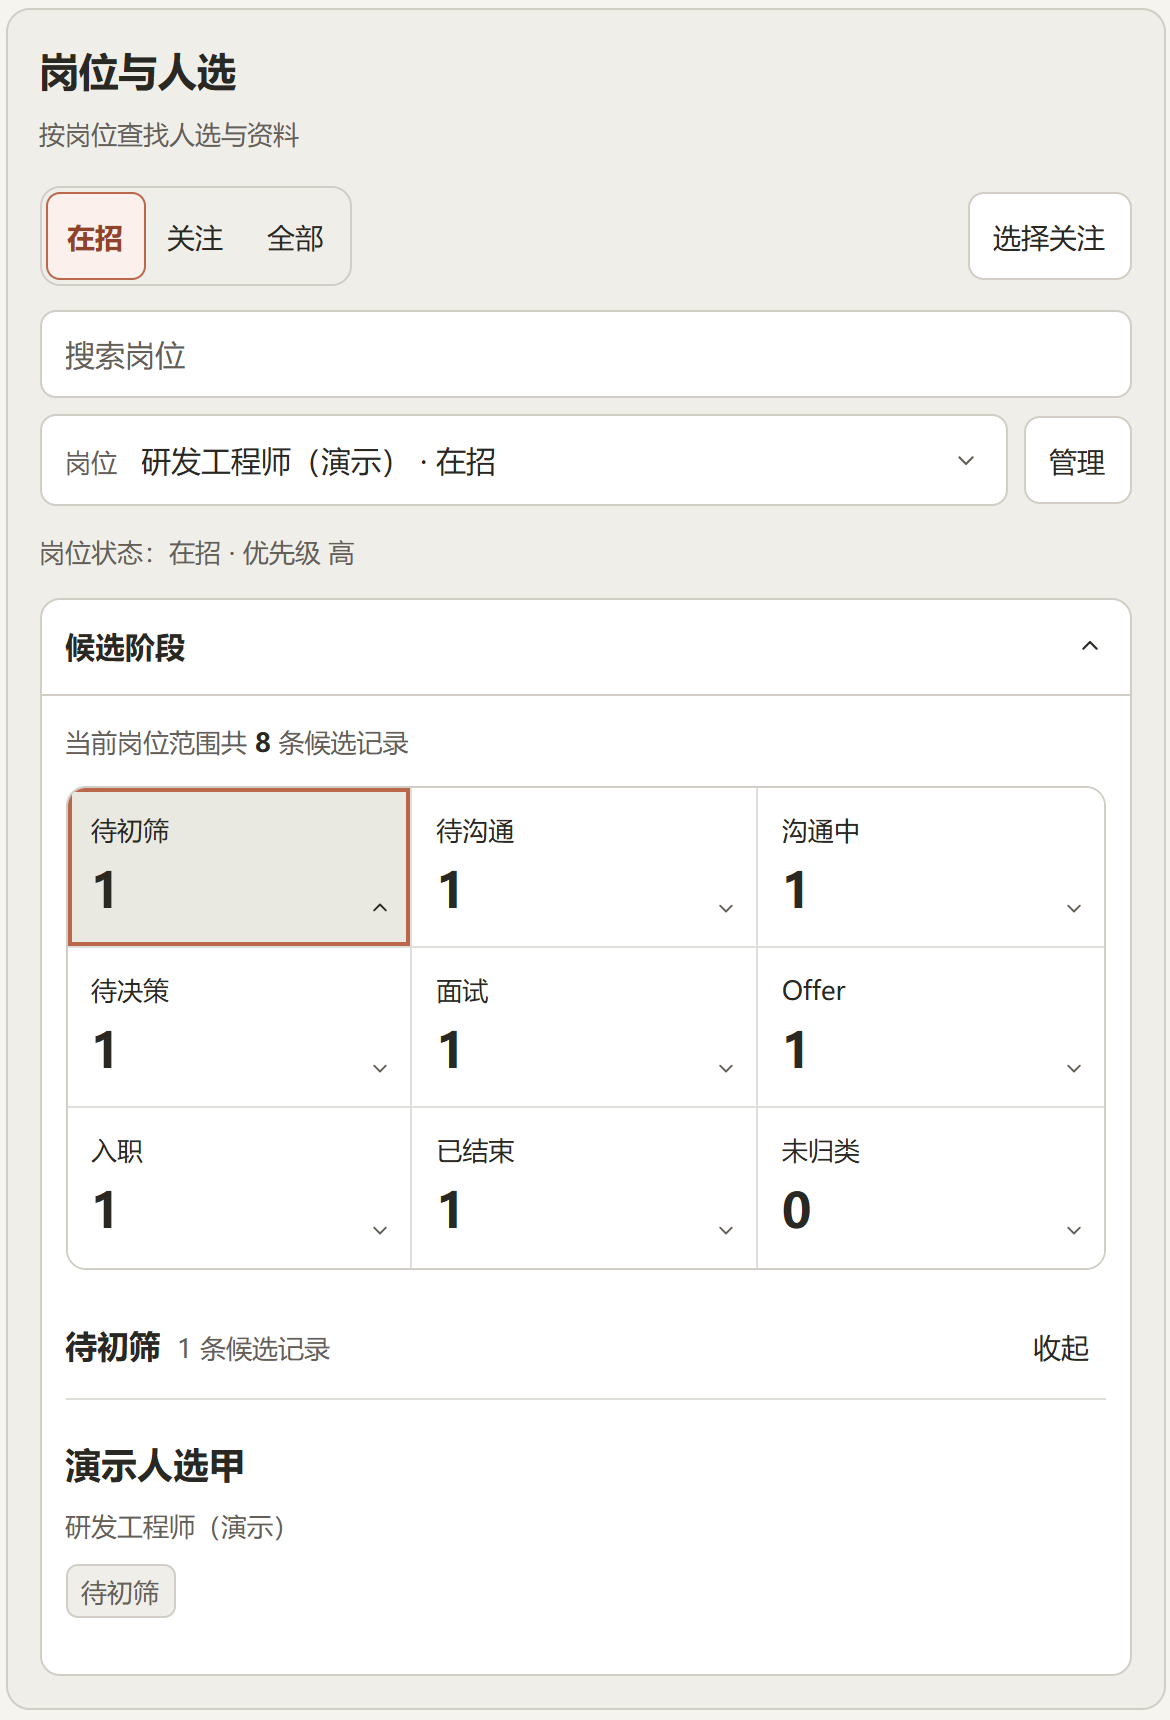
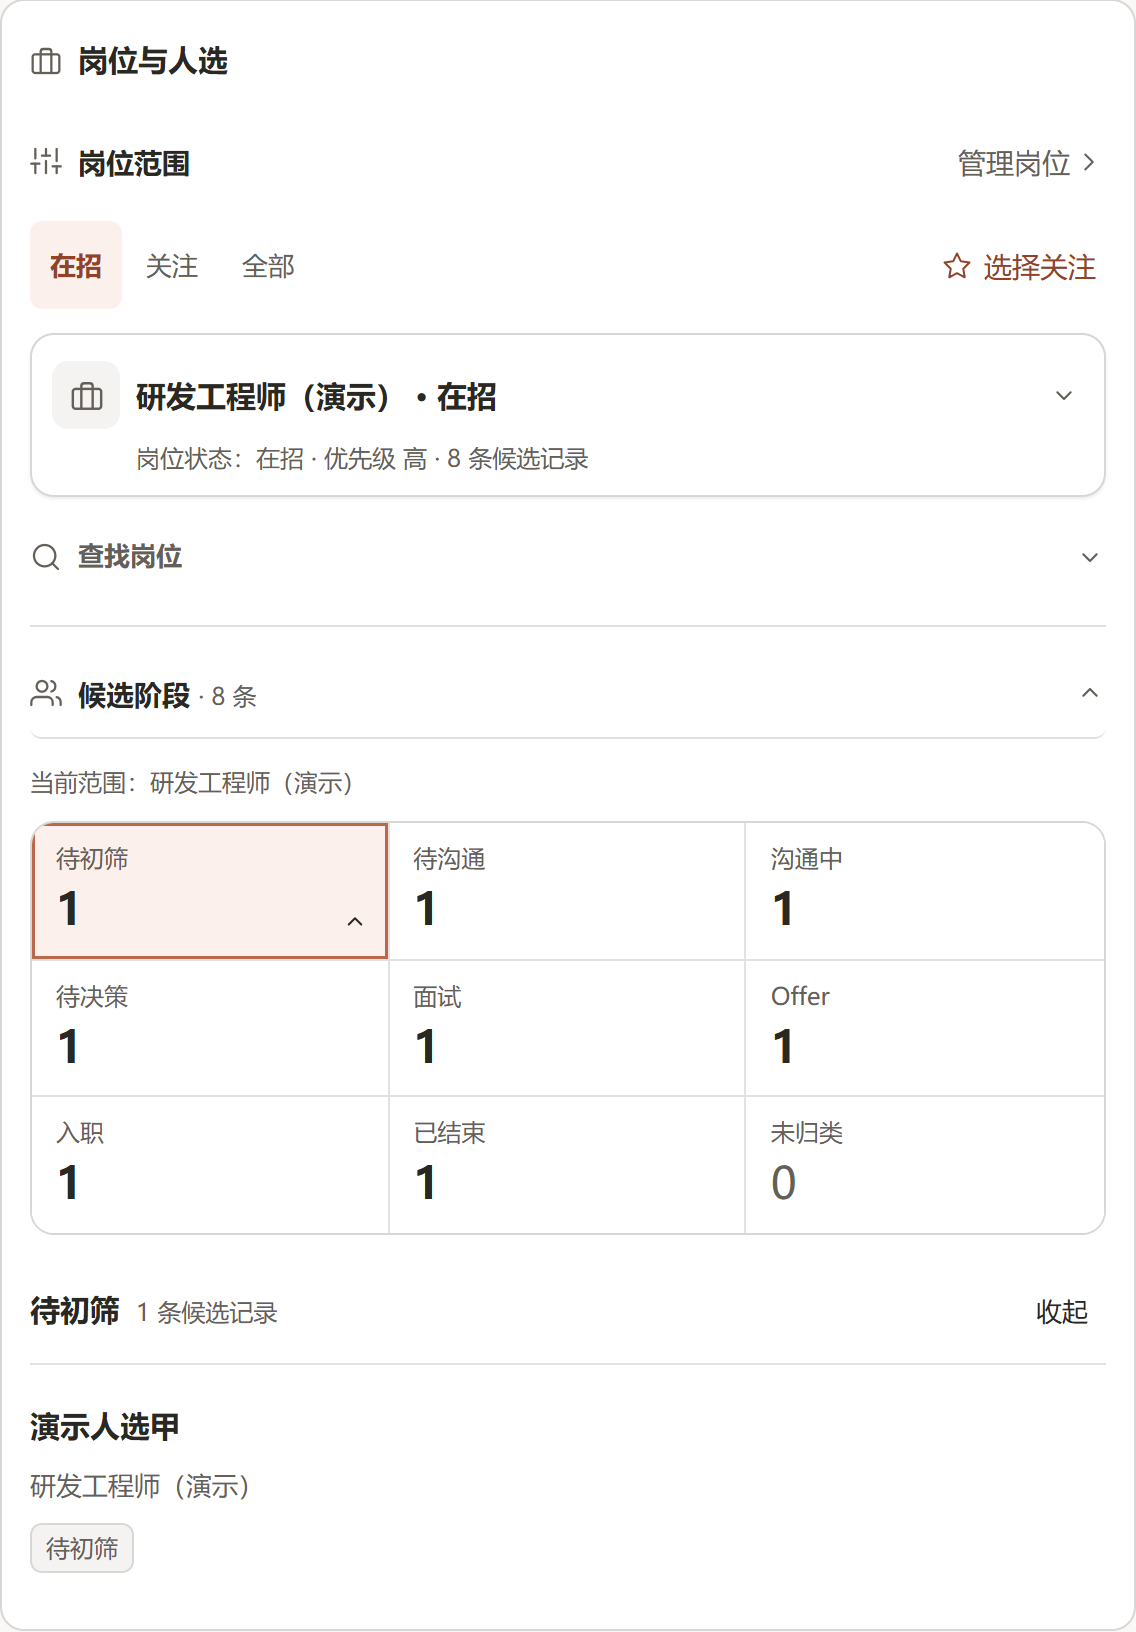
发布: 更新招聘工作台文档截图并准备 0.8.0
README 与使用说明改为当前界面，补充全局姓名搜索、Workspace、宽窄布局和排序操作，并替换旧功能截图为合成数据的高清 PNG。

统一主包与插件版本，补齐固定版本安装、已有工作区升级和回退说明，使发行入口与工作台实现一致。

diff --git a/README.md b/README.md
@@ -4,7 +4,7 @@
 
 支持 Claude Code、Codex、WorkBuddy、Qoder、MiniMax Code、ZCode 等能读取项目文件的 AI 工具。招聘标准、候选台账和面试档案保存在你自己的工作区，换工具也能接着做。
 
-当前正式版为 **v0.7.0**。[开始使用](#开始使用) · [完整 Skill 目录](#完整-skill-目录) · [已有工作区升级](docs/releases/v0.7.0.md#升级已有工作区)
+当前正式版为 **v0.8.0**。[开始使用](#开始使用) · [完整 Skill 目录](#完整-skill-目录) · [已有工作区升级](docs/releases/v0.8.0.md#升级已有工作区)
 
 ## 从首次使用到日常招聘
 
@@ -52,7 +52,7 @@
 #### 1. 下载固定版本并安装依赖
 
 ```bash
-git clone --branch v0.7.0 --depth 1 https://github.com/Viy1204/recruiting-copilot.git
+git clone --branch v0.8.0 --depth 1 https://github.com/Viy1204/recruiting-copilot.git
 ```
 
 进入源码目录。
@@ -79,7 +79,7 @@ sh skills/recruit-init/scripts/install-dependencies.sh
 
 AI 会询问工作区位置，建立模板和各工具的 Skill 入口，再逐个岗位梳理真实要求。**本仓库是工具源码，岗位数据和候选资料放在新建的独立工作区。**
 
-已有工作区先按[升级说明](docs/releases/v0.7.0.md#升级已有工作区)同步工具文件，保留原有标准、台账和档案。
+已有工作区先按[升级说明](docs/releases/v0.8.0.md#升级已有工作区)同步工具文件，保留原有标准、台账和档案。
 
 #### 3. 在可见窗口中完成人工登录
 
@@ -117,14 +117,14 @@ claude plugin marketplace add "/绝对路径/recruiting-copilot"
 claude plugin install recruiting-copilot@recruiting-copilot
 ```
 
-如果已配置同名 marketplace，先核对来源再按原来源更新，见[正式版安装说明](docs/releases/v0.7.0.md#固定版本安装)。重新打开会话后，先用 `/recruiting-copilot:recruit-init` 建立招聘工作区。后续在自己的工作区使用下表的插件命令，也可以继续用自然语言。
+如果已配置同名 marketplace，先核对来源再按原来源更新，见[正式版安装说明](docs/releases/v0.8.0.md#固定版本安装)。重新打开会话后，先用 `/recruiting-copilot:recruit-init` 建立招聘工作区。后续在自己的工作区使用下表的插件命令，也可以继续用自然语言。
 
 ### DeepSeek Harness 入口
 
 [DeepSeek Harness](https://github.com/deepseek-ai/deepseek-harness) 用户在使用 Web profile 的环境中安装：
 
 ```bash
-dsh plugin --profile web add git+https://github.com/Viy1204/recruiting-copilot.git#v0.7.0
+dsh plugin --profile web add git+https://github.com/Viy1204/recruiting-copilot.git#v0.8.0
 ```
 
 重新打开 DSH 会话后，8 个招聘 Skill 在任意工作区可用。首次仍从“帮我初始化招聘工作区”开始，之后打开新建的招聘工作区处理日常任务。
@@ -182,17 +182,24 @@ DSH 另有独立的 **招聘浏览器**，用于观察两个 CLI 的平台页面
 
 ## 招聘进展看板
 
-看板伴随招聘工作流显示本轮任务，方便你在 AI 执行时核对进度和人选。初始化、岗位梳理、每日招聘、人才盘点、简历评估和约面试这六个流程，在进度脚本可用时默认记录真实步骤，并尽早打开或复用网页。
+网页现在以“招聘工作台”组织任务与人选。初始化、岗位梳理、每日招聘、人才盘点、简历评估和约面试这六个流程，在进度脚本可用时记录真实步骤，并尽早打开或复用工作台。
 
-![Claude Desktop 中 AI 对话与招聘看板的并排布局：左侧为本次文档调整对话，右侧为演示人选与任务记录](docs/images/recruit-board-sidebar.png)
+![招聘工作台宽屏布局：左侧 Workspace 导航，顶部姓名搜索，下方并列显示需确认人选、岗位阶段与任务记录](docs/images/recruit-board-overview.png)
 
-*Claude Desktop 实拍，用本次文档调整对话展示左侧聊天、右侧看板的侧栏布局。右侧岗位、姓名、经历和数字均为合成演示数据。能否停靠在侧栏取决于宿主，普通浏览器也能打开同一网页。*
+*新版网页的实际运行截图，使用合成岗位、人选和任务。宽屏显示 Workspace 与三个分区；侧栏根据实际可用宽度收为单列。点击图片可查看无损 PNG 原图。*
 
-你可以在看板中查看本轮待确认人选及依据，展开执行记录和逐人处理名单，按岗位查看候选阶段、打开本地资料，也可保存本地岗位状态并自动备份。
+<img src="docs/images/recruit-board-sidebar.png" alt="招聘工作台在390px侧栏宽度下自动单列显示，顶部保留搜索与确认事项" width="390">
 
-看板读取已写入工作区的数据，不连接招聘平台。读取正常不代表 AI 进程仍在运行；候选台账保持只读，岗位保存只更新本地 `CONTEXT.md`，不改变平台职位。旧工作区缺少进度脚本时，招聘流程仍可继续，并说明本轮未记录进度。
+*同一网页的 390px 窄栏截图，不含宿主外框。能否停靠在 AI 工具侧栏取决于宿主，普通浏览器也可打开。*
 
-完整功能图解、手动打开步骤、可选 Claude 原生面板与配置见[招聘进展看板使用说明](docs/recruit-board.md)。
+- 在顶部 **搜索人选** 输入完整或部分姓名，查找全部岗位、阶段和历史岗位中的记录。结果在岗位区显示，清空后恢复原筛选。
+- 从 Workspace 定位到岗位或执行记录，直接打开关注岗位；窄栏中的正文仍保留所有入口。
+- 查看本轮需确认人选、判断依据、逐人处理记录和候选资料。历史任务选择与资料返回位置会保留。
+- 用 **调整布局** 重排模块，偏好按工作区保存在本机。明确无确认事项时只显示紧凑摘要。
+
+看板读取已写入工作区的数据，不连接招聘平台。读取正常不代表 AI 进程仍在运行；候选台账保持只读，岗位保存只更新本地 `CONTEXT.md` 并备份，不改变平台职位。旧工作区缺少进度脚本时，招聘流程仍可继续，并说明本轮未记录进度。
+
+完整的宽窄布局、搜索、排序、资料和手动打开图解见[招聘工作台使用说明](docs/recruit-board.md)。可选 Claude 原生面板继续使用宿主组件，本次网页布局不替换原生面板。
 
 ## 使用边界
 
@@ -206,7 +213,7 @@ DSH 另有独立的 **招聘浏览器**，用于观察两个 CLI 的平台页面
 
 | 入口 | 内容 |
 | --- | --- |
-| [v0.7.0 正式版说明](docs/releases/v0.7.0.md) | 固定版本安装、已有工作区升级、回退与兼容边界 |
+| [v0.8.0 正式版说明](docs/releases/v0.8.0.md) | 固定版本安装、已有工作区升级、回退与兼容边界 |
 | [流程总目录](skills/ask-viy/SKILL.md) | 从首次初始化到每日招聘，以及简历、人才盘点和面试的流程选择 |
 | [设计思路与理念](docs/DESIGN.md) | 为什么先梳理岗位、使用本地文件、区分内外资料并保留人工确认 |
 | [BOSS CLI 维护 fork](https://github.com/Viy1204/boss-cli) | `@viyzhu/boss-cli-fork` 的安装、命令和平台操作边界 |

diff --git a/docs/releases/v0.8.0.md b/docs/releases/v0.8.0.md
@@ -1,0 +1,54 @@
+# v0.8.0 正式版
+
+v0.8.0 将招聘进展网页整理为“招聘工作台”。Workspace 导航、全局姓名搜索和宽窄布局让你在浏览器或宿主侧栏中核对同一份招聘记录。主包、主插件和可选原生插件统一为 `0.8.0`；原生面板继续使用原有宿主组件。
+
+## 本次交付
+
+- 顶部按完整或部分姓名搜索全部岗位、阶段和历史岗位。搜索结果替换岗位区，清空后恢复原岗位与阶段；保留同名不同原岗位的记录。
+- 宽屏新增 Workspace 同页导航、关注岗位入口和工作区信息。正文默认三列，中等宽度两列，窄侧栏单列；按实际容器宽度适配。
+- 明确零确认时压缩为摘要；有事项时展示人选，未知和读取异常仍保留原因。确认事项只属于所选任务。
+- 调整布局时临时切成单列，支持拖动、上下移动、键盘确认取消及恢复默认。旧工作区布局顺序继续保留。
+- 搜索、资料返回、历史任务、关注偏好和浅深主题与新结构兼容。开发预览可切换宽屏和窄栏，正式页自动适配。
+- README 和使用说明更新为当前页面截图，全部使用合成演示数据。
+
+## 固定版本安装
+
+需要 Node.js ≥22 与现代浏览器。BOSS 与猎聘 CLI 的依赖来源沿用 v0.7.0，不因工作台升级变更招聘平台授权。
+
+```bash
+git clone --branch v0.8.0 --depth 1 https://github.com/Viy1204/recruiting-copilot.git
+```
+
+进入源码目录后安装依赖：
+
+```bash
+sh skills/recruit-init/scripts/install-dependencies.sh
+```
+
+Claude Code 按 [README 插件入口](../../README.md#claude-code-插件入口) 添加该固定源码目录。已有 marketplace 先核对来源，再按原来源更新并重新打开会话，避免同时加载不同副本。
+
+DeepSeek Harness 使用：
+
+```bash
+dsh plugin --profile web add git+https://github.com/Viy1204/recruiting-copilot.git#v0.8.0
+```
+
+源码 ZIP 包含主插件 `.claude-plugin/` 和 `commands/`；TGZ 供 DSH 和脚本使用，不替代完整 Claude 插件源码。本版本不向 npm 发布 recruiting-copilot。
+
+## 升级已有工作区
+
+先备份工作区工具文件和定制规则，再同步本版本 `skills/recruit-board/`。源码或插件升级不会自动替换先前复制到工作区的工具文件。
+
+保留 `CONTEXT.md`、候选台账、JD、面试档案、定时预算及业务 `runtime/`。不要用初始化模板覆盖它们。项目级 Skill 入口继续指向同一份 `skills/`，注册冲突按[已有工作区升级说明](v0.7.0.md#升级已有工作区)处理。
+
+本次布局沿用 `recruiting-board:layout:v1:<workspaceKey>` 及原模块标识，确认区承接原“招聘助手”的排序位置；搜索固定在正文结构顶部，不参与排序。关注与岗位选择仍按工作区保存。损坏或不可用存储会明确提示并降级。
+
+同步后刷新网页；若服务仍加载旧的首页参数校验，重启用户或宿主管理的看板服务。默认入口和[手动启动命令](../recruit-board.md#手动打开看板)不变，保留 connect 返回的完整工作区标识。
+
+## 回退与兼容边界
+
+停止本版服务，恢复升级前工具文件备份或 v0.7.0，再重新打开对应会话和网页。本次没有迁移业务文件或改变排序存储版本。回退不会撤销之前单独保存过的岗位状态；需要恢复岗位表时先核对其原文备份。
+
+网页仍只读取本地候选台账和资料；岗位状态仅在明确保存时写入本地岗位表，不改变招聘平台职位。不新增联系、拒绝或邀约授权。
+
+合成与真实工作区的验证及边界见[工作台验收](../../verification/workspace-layout-checks.md)和[日常安装验证](../../verification/workspace-layout-installed-checks.md)。实体手机、所有宿主与完整辅助技术未逐一实测。可选原生面板没有采用这次网页布局；其运行能力继续取决于实际宿主版本。

diff --git a/verification/release-v0.8.0-checks.md b/verification/release-v0.8.0-checks.md
@@ -1,0 +1,20 @@
+# v0.8.0 发布验证
+
+2026-10-30。发布范围为已实现的招聘工作台网页版、全局姓名搜索、Workspace、响应式布局及对应文档。此前未提交的原生面板搜索改动、个人设计草稿和本机部署脚本不进入发布。
+
+## 已完成检查
+
+- 版本号统一为0.8.0：package.json、主插件和可选原生插件清单一致。
+- Node完整回归135通过、0失败、0跳过；WSL Ubuntu的安装器与工作区注册测试均通过。
+- 日常安装副本已同步20个网页相关文件并实际核验搜索、资料返回、历史任务、岗位阶段、宽窄和主题；56个业务与规则文件保持不变，详见[安装验证](workspace-layout-installed-checks.md)。
+- README与使用说明更新为当前界面，原有八张截图全部替换，并补充搜索、布局和390px窄栏图。截图来自独立无扩展的本地浏览器上下文、实际网页与合成工作区，以2倍像素密度导出无损PNG。局部图只裁切页面对应区域，不拼造产品内容。
+- 宽屏总览2640×2162、390px窄栏780×1920；各功能局部图已逐张查看并排除空白和扩展浮标。侧栏图是窄宽度网页，不含宿主外框，文档已明确。
+- 初次屏外截图为空白，已改为滚到可见区域后截取并替换；桌面截图CLI后续不可用，未将旧宿主截图冒充新版。
+
+## 交付检查
+
+最终发布候选需要在干净快照上验证文档链接、源码ZIP、TGZ及独立页面行为，随后以GitHub CI、独立验证意见和实际合并结果为准。合并与发行结果另记录到本机交付日志，不能把分支推送或自动合并已安排视为完成。
+
+## 兼容边界
+
+网页保留业务数据语义与旧布局偏好，不增加平台操作。可选原生面板采用上一版已发布实现，仅版本号同步；不宣称已验证所有原生宿主、实体手机或完整辅助技术。TGZ供DSH与脚本使用，本次不发布npm包。
